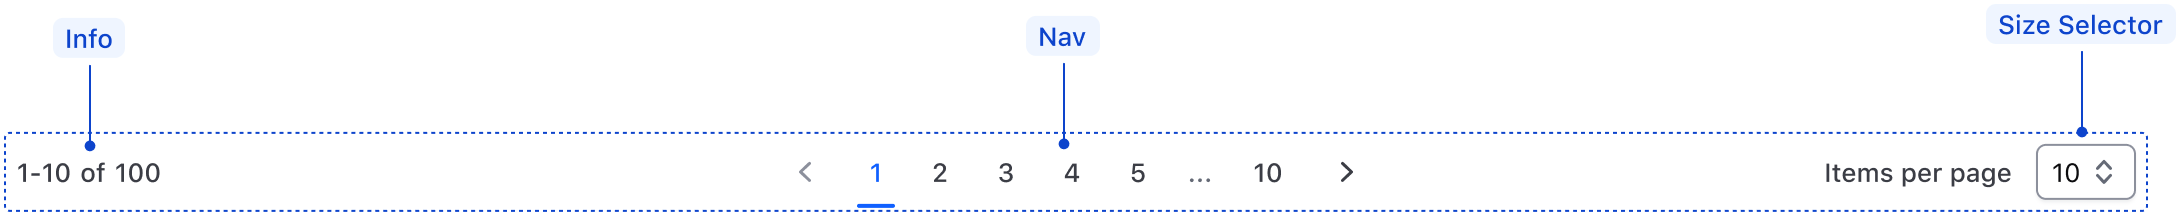
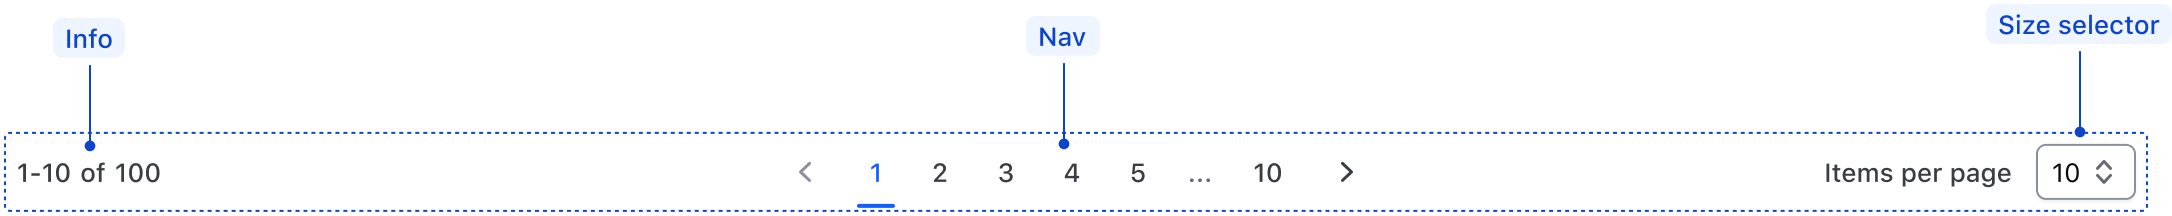
Update content
Updated guidelines, anatomy and accessibility sections based on feedback received

diff --git a/website/docs/components/pagination/partials/guidelines/guidelines.md b/website/docs/components/pagination/partials/guidelines/guidelines.md
@@ -6,12 +6,12 @@
 
 ### When not to use
 
-- As a navigation control for a flow or to pair with a stepper, i.e. for a guide, tutorial, setup flow.
+- As a navigation control for a flow or to pair with a stepper, i.e. for a guide, tutorial, or setup flow.
 - As a controller to switch between multiple views. Use [Tabs](/components/tabs/) instead.
 
 ### Numbered vs Compact
 
-In most cases, the numbered pagination provides a greater user experience. It allows users to jump between pages and always return to the first page or go to the last page without navigating through the pages manually.
+In most cases, the numbered pagination provides a better user experience. It allows users to jump between pages and always return to the first page or go to the last page without navigating through the pages manually.
 
 If your product only has cursor pagination, it won't be able to support the numbered variant. Only applications with offset pagination can implement the numbered pagination variant.
 
@@ -23,7 +23,7 @@ If your product only has cursor pagination, it won't be able to support the numb
 
 !!! Warning 
 
-We strongly recommend talking to your engineering team before using a specific variant. Learn more about [offset and cursor pagination] (https://ignaciochiazzo.medium.com/paginating-requests-in-apis-d4883d4c1c4c)
+We strongly suggest that you talk to your engineering team to see if offset or cursor pagination are right for your project. Learn more about [offset and cursor pagination] (https://ignaciochiazzo.medium.com/paginating-requests-in-apis-d4883d4c1c4c).
 
 !!!
 
@@ -31,14 +31,14 @@ We strongly recommend talking to your engineering team before using a specific v
 
 - When using the pagination bar, the container should be flush on the left & right with the content.
 - When using the pagination, the component should be center aligned with the content it relates to.
-- Make sure there's enough distance and breathing room between the pagination and not related content (e.g. another section below it), so it's clear what content the pagination is paired with.
+- Make sure there’s enough distance and breathing room between the pagination and unrelated content (e.g. another section below it), so it’s clear what content the pagination is paired with.
 
 When pairing the pagination or pagination bar with tables, we recommend:
-- 12px or 16px between the pagination or pagination bar and the content it relates to.
+- 16px between the pagination or pagination bar and the content it relates to.
 
 ![Spacing for pagination paired with tables](/assets/components/pagination/pagination-spacing-tables.png)
 
-When pairing with not contained content (e.g. cards, lists), we recommend:
+When pairing with content which is not contained (e.g. cards, lists), we recommend:
 - At least 16px for consistency. If your product uses a scale where the spacing between elements tends to be higher or lower, or the paginated content looks optically loose or tight to the component, increase or decrease the spacing accordingly.
 
 ![Spacing for pagination paired with not contained content](/assets/components/pagination/pagination-spacing-not-contained.png)

diff --git a/website/docs/components/pagination/partials/accessibility/accessibility.md b/website/docs/components/pagination/partials/accessibility/accessibility.md
@@ -19,19 +19,19 @@ The `Component Name` component is not WCAG-conformant on its own. (Explain how t
 
 In most cases, the numbered pagination provides a greater user experience. It allows users to jump between pages and always return to the first page or go to the last page without navigating through the pages manually.
 
-If your product only has cursor pagination, it won't be able to support the numbered variant. Only applications with offset pagination can implement the numbered pagination variant.
-
-![Keyboard navigation](/assets/components/pagination/pagination-keyboard-navigation-01.png =50%x50%)
+If your product only has cursor pagination, it won’t be able to support the numbered variant. Only applications with offset pagination can implement the numbered pagination variant.
 
 Focus and move between pagination controls.
 
-![Keyboard navigation](/assets/components/pagination/pagination-keyboard-navigation-02.png =50%x50%)
+`tab`
+
+![Keyboard navigation](/assets/components/pagination/pagination-keyboard-navigation-01.png =50%x50%)
 
 Trigger button to navigate to another page.
 
-### Heading 3
+`enter`
 
-{description of best practice}
+![Keyboard navigation](/assets/components/pagination/pagination-keyboard-navigation-02.png =50%x50%)
 
 ## Applicable WCAG Success Criteria
 

diff --git a/website/docs/components/pagination/partials/specifications/anatomy.md b/website/docs/components/pagination/partials/specifications/anatomy.md
@@ -9,7 +9,7 @@
 |------------------|-------------------------------------------------|
 | Info             | Optional                                        |
 | Nav              | Required                                        |
-| Size Selector    | Optional                                        |
+| Size selector    | Optional                                        |
 
 ### Pagination Nav
 
